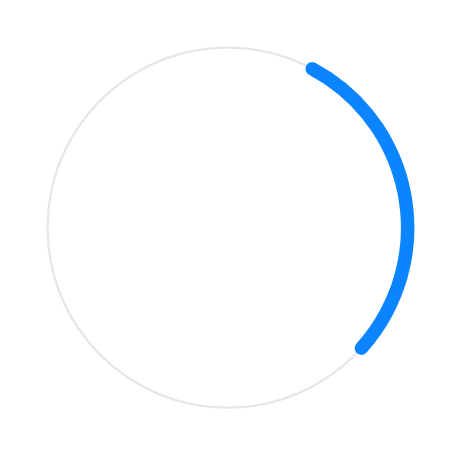
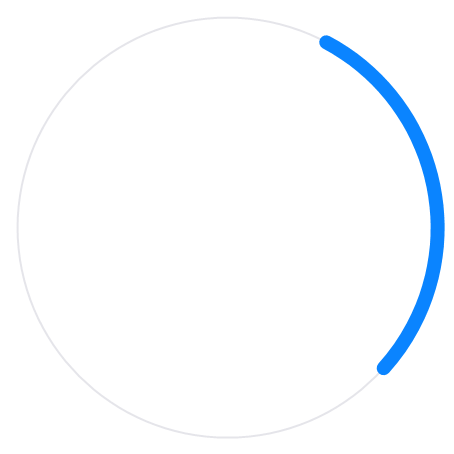
fix: align home progress ring to watch edge

diff --git a/tests/home-visual-assets.test.js b/tests/home-visual-assets.test.js
@@ -93,6 +93,28 @@ function countPixels(image, predicate) {
     return count;
 }
 
+function pixelBounds(image, predicate) {
+    let minX = image.width;
+    let minY = image.height;
+    let maxX = -1;
+    let maxY = -1;
+
+    for (let y = 0; y < image.height; y++) {
+        for (let x = 0; x < image.width; x++) {
+            const index = (y * image.width + x) * 4;
+            if (predicate(image.pixels[index], image.pixels[index + 1], image.pixels[index + 2], image.pixels[index + 3])) {
+                minX = Math.min(minX, x);
+                minY = Math.min(minY, y);
+                maxX = Math.max(maxX, x);
+                maxY = Math.max(maxY, y);
+            }
+        }
+    }
+
+    assert(maxX >= 0, 'Expected at least one matching pixel.');
+    return { minX, minY, maxX, maxY };
+}
+
 function cssRule(selector) {
     const css = fs.readFileSync('entry/src/main/js/MainAbility/pages/index/index.css', 'utf8');
     const match = css.match(new RegExp('\\' + selector + '\\s*\\{([^}]+)\\}'));
@@ -120,5 +142,7 @@ assert.strictEqual(progressRing.width, 454, 'home_progress_ring.png should match
 assert.strictEqual(progressRing.height, 454, 'home_progress_ring.png should match the 454px artboard.');
 const ringBluePixels = countPixels(progressRing, (r, g, b, a) => a > 80 && b > 180 && g > 90 && r < 80);
 assert(ringBluePixels > 3800, 'The progress ring should contain a clear blue rounded arc.');
+const ringBlueBounds = pixelBounds(progressRing, (r, g, b, a) => a > 80 && b > 180 && g > 90 && r < 80);
+assert(ringBlueBounds.maxX >= 438, 'The blue progress arc should sit close to the circular watch face edge.');
 
 console.log('Home visual asset checks pass.');
